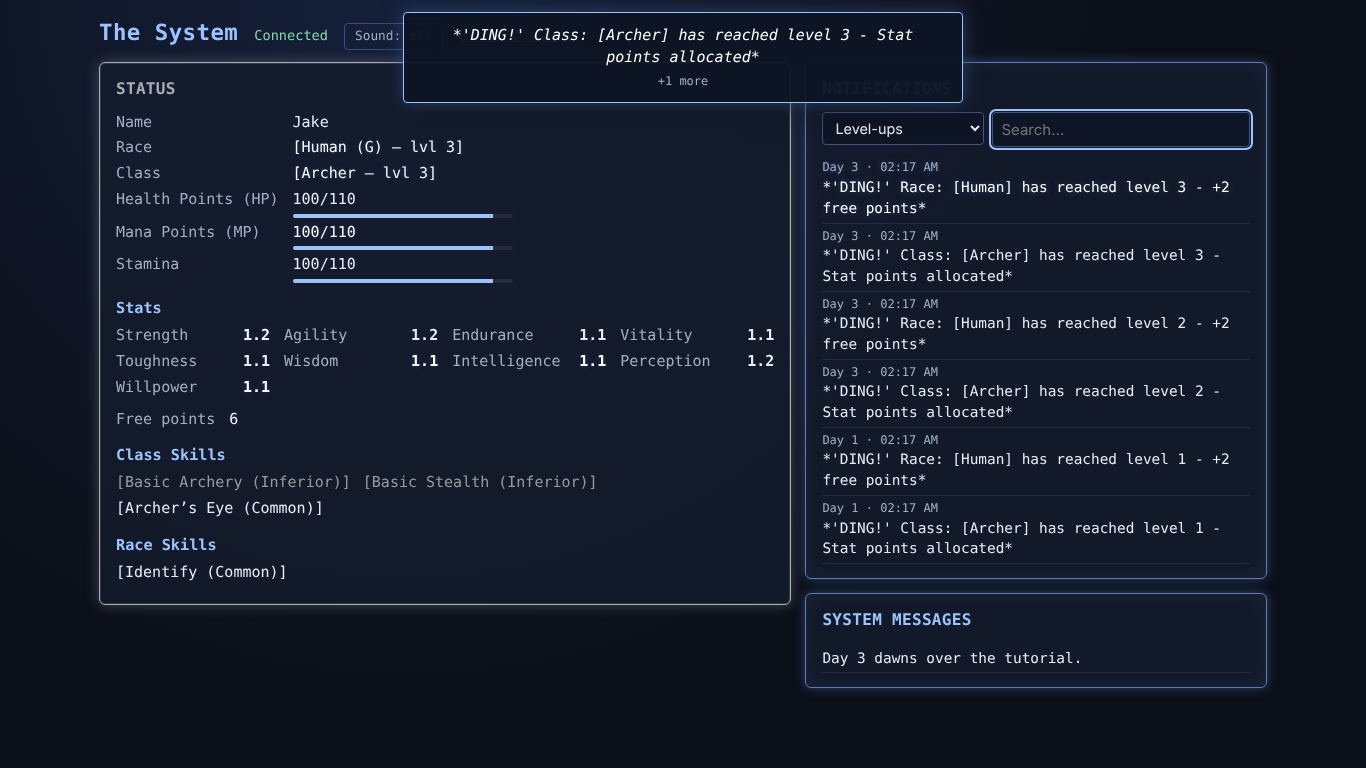
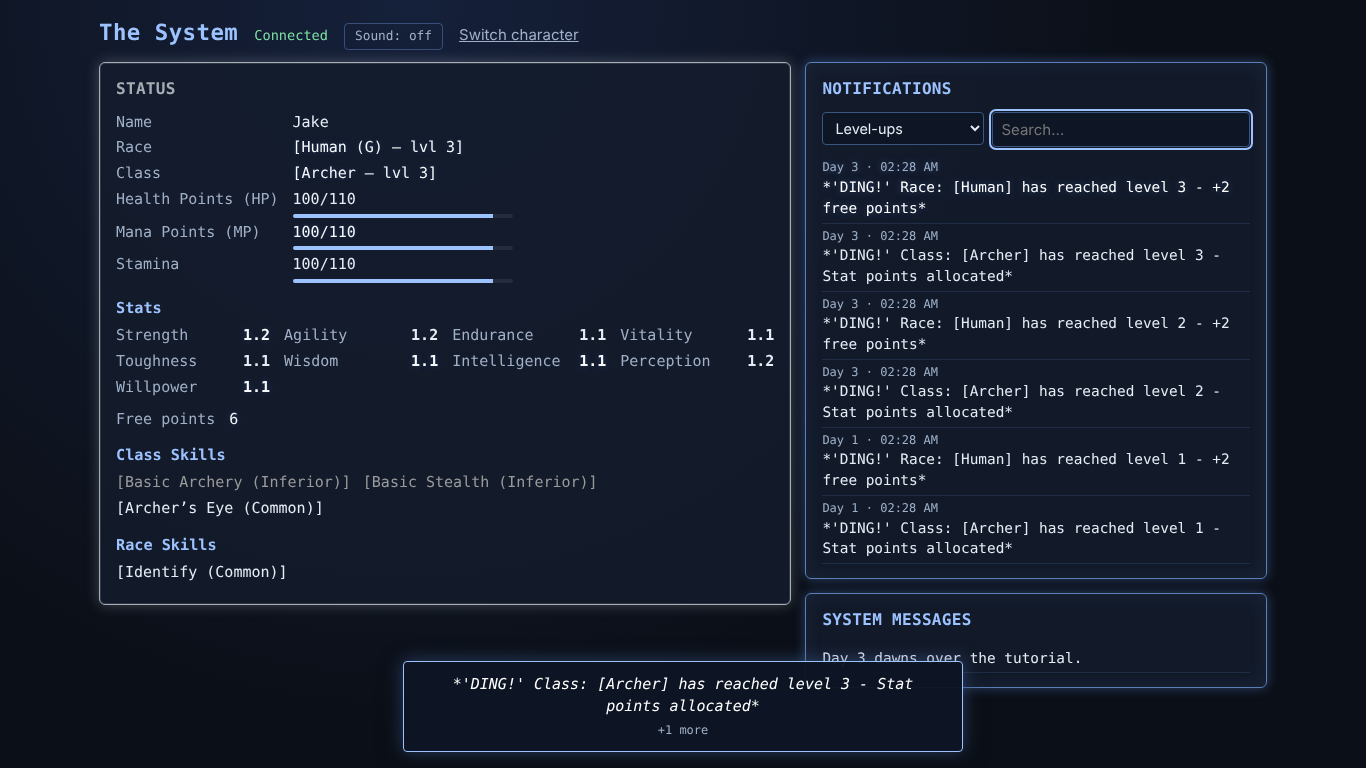
fix(M3.3): address review (DING queue by identity after undo, reset on rejoin after an offline undo, toast at the bottom, polite live region); test both
Claude-Session: https://claude.ai/code/session_01DunU5eoqUWJ2p7HLvhbDbF

Changed region(s): [[0.3075, 0.8438, 0.7072, 1.0], [0.2767, 0.0, 0.7072, 0.125]]

diff --git a/apps/web/src/player/PlayerScreen.tsx b/apps/web/src/player/PlayerScreen.tsx
@@ -14,8 +14,9 @@ import { LiveClient, type LiveSnapshot } from '../live';
 import { playChime, unlockChime } from './chime';
 import {
   HISTORY_FILTERS,
-  arrivals,
   filterHistory,
+  nextArrival,
+  notificationKey,
   readSound,
   whenLabel,
   writeSound,
@@ -361,13 +362,13 @@ const DING_MS = 2600;
  * Older history never pops up; it is in the Notifications list.
  */
 function DingQueue({ live, sound }: { live: LiveSnapshot; sound: boolean }) {
-  const queue = arrivals(live.notifications, live.liveSince);
-  const [shown, setShown] = useState(0);
-  const current = queue[shown];
-  const key = current ? `${current.seq}:${shown}` : null;
+  const [shown, setShown] = useState<ReadonlySet<string>>(() => new Set());
+  const { current, waiting } = nextArrival(live.notifications, live.liveSince, shown);
+  const key = current ? notificationKey(current) : null;
+  const done = (k: string) => setShown((s) => new Set(s).add(k));
   useEffect(() => {
     if (key === null) return;
-    const timer = setTimeout(() => setShown((s) => s + 1), DING_MS);
+    const timer = setTimeout(() => done(key), DING_MS);
     return () => clearTimeout(timer);
   }, [key]);
   // The chime plays once per DING, not again when sound is toggled.
@@ -377,24 +378,24 @@ function DingQueue({ live, sound }: { live: LiveSnapshot; sound: boolean }) {
     chimed.current = key;
     if (sound) playChime();
   }, [key, sound]);
-  if (!current) return null;
-  const waiting = queue.length - shown - 1;
   return (
-    <div className="ding-layer">
-      <button
-        type="button"
-        className="ding-toast"
-        key={key}
-        data-testid="ding-toast"
-        onClick={() => setShown((s) => s + 1)}
-      >
-        <span role="status">{notificationText(current.notification)}</span>
-        {waiting > 0 && (
-          <span className="ding-more" data-testid="ding-more">
-            +{waiting} more
-          </span>
-        )}
-      </button>
+    <div className="ding-layer" aria-live="polite">
+      {current && (
+        <button
+          type="button"
+          className="ding-toast"
+          key={key}
+          data-testid="ding-toast"
+          onClick={() => key !== null && done(key)}
+        >
+          <span>{notificationText(current.notification)}</span>
+          {waiting > 0 && (
+            <span className="ding-more" data-testid="ding-more">
+              +{waiting} more
+            </span>
+          )}
+        </button>
+      )}
     </div>
   );
 }

diff --git a/apps/server/test/sync.test.ts b/apps/server/test/sync.test.ts
@@ -285,17 +285,19 @@ describe('live protocol and authority', () => {
     };
     expect(view.view.me.classLevel).toBe(store.campaign.state?.characters.casper?.classLevel);
 
-    // Undo: the undone award's notifications are not replayed on a later rejoin.
-    const award2Id = store.campaign.events[store.campaign.events.length - 1]?.id;
+    // Undo: the undone award's notifications are not replayed on a later rejoin;
+    // an undo since lastSeq replaces the whole history (M3.3).
+    const award2Seq = store.campaign.events.length;
+    const award2Id = store.campaign.events[award2Seq - 1]?.id;
     expect((await gm.command({ type: 'event.undo', eventId: award2Id })).ok).toBe(true);
     const later = await connect();
     later.send({ type: 'join', role: 'player', characterId: 'casper', lastSeq });
     await later.waitFor((m) => m.type === 'view');
-    const replayed = later
-      .messages()
-      .filter((m) => m.type === 'notifications')
-      .flatMap((m) => m.items as { notification: { kind: string } }[]);
-    expect(replayed.filter((i) => i.notification.kind === 'level')).toEqual([]);
+    const frames = later.messages().filter((m) => m.type === 'notifications');
+    expect(frames).toEqual([expect.objectContaining({ reset: true })]);
+    const replayed = frames.flatMap((m) => m.items as { seq: number }[]);
+    expect(replayed.length).toBeGreaterThan(0);
+    expect(replayed.filter((i) => i.seq >= award2Seq)).toEqual([]);
     // lastSeq 0 is the whole history (M3.3): Casper's own, the undone award gone.
     const old = await connect();
     old.send({ type: 'join', role: 'player', characterId: 'casper', lastSeq: 0 });

diff --git a/apps/server/test/hub.test.ts b/apps/server/test/hub.test.ts
@@ -63,6 +63,36 @@ describe('LiveHub', () => {
         }),
       ]),
     });
+    // An undo while Jake's phone was offline: rejoining replaces his history.
+    const awardId = store.campaign.events[2]?.id;
+    conn.receive(
+      JSON.stringify({
+        type: 'command',
+        requestId: 'u1',
+        command: { type: 'event.undo', eventId: awardId },
+      }),
+    );
+    expect(got.find((m) => m.type === 'result' && m.requestId === 'u1')).toMatchObject({
+      ok: true,
+    });
+    const phone: ServerMessage[] = [];
+    const back = hub.connect((m) => phone.push(m));
+    back.receive(JSON.stringify({ type: 'join', role: 'player', characterId: 'jake', lastSeq: 3 }));
+    const replaced = phone.find((m) => m.type === 'notifications');
+    expect(replaced).toMatchObject({ reset: true });
+    expect(replaced?.type === 'notifications' && replaced.items).toEqual([]);
+    // Up to date: no reset, nothing new.
+    const fresh: ServerMessage[] = [];
+    const later = hub.connect((m) => fresh.push(m));
+    later.receive(
+      JSON.stringify({ type: 'join', role: 'player', characterId: 'jake', lastSeq: hub.seq }),
+    );
+    expect(fresh.find((m) => m.type === 'notifications')).toEqual({
+      type: 'notifications',
+      items: [],
+    });
+    back.close();
+    later.close();
     // A failed re-join drops the GM role.
     conn.receive(JSON.stringify({ type: 'join', role: 'player', characterId: 'ghost' }));
     conn.receive(

diff --git a/e2e/M3.3.spec.ts b/e2e/M3.3.spec.ts
@@ -236,6 +236,18 @@ test('the DING history reaches back to day 1 and new DINGs queue up', async ({ b
   const width = await phone.locator('html').evaluate((el) => el.scrollWidth);
   expect(width).toBeLessThanOrEqual(390);
   await phone.screenshot({ path: path.join(shots, 'player-390x844.png'), fullPage: true });
+  // A DING on the phone pops up at the bottom, clear of the header controls.
+  await award(gm, 200);
+  const phoneToast = phone.getByTestId('ding-toast');
+  await expect(phoneToast).toContainText("*'DING!' Class: [Archer]");
+  await phoneToast.evaluate((el) =>
+    Promise.all(el.getAnimations().map((a: { finished: Promise<unknown> }) => a.finished)),
+  );
+  const box = await phoneToast.boundingBox();
+  const header = await phone.getByTestId('sound').boundingBox();
+  expect(box && header && box.y > header.y + header.height).toBe(true);
+  expect(box && box.y + box.height <= 844 && box.x >= 0 && box.x + box.width <= 390).toBe(true);
+  await phone.screenshot({ path: path.join(shots, 'player-ding-390x844.png') });
 
   // Canary: nothing GM-only or meant for Miranda reached Jake's browser.
   const all = frames.join('\n');

diff --git a/apps/web/test/history.test.ts b/apps/web/test/history.test.ts
@@ -4,6 +4,8 @@ import {
   SOUND_KEY,
   arrivals,
   filterHistory,
+  nextArrival,
+  notificationKey,
   readSound,
   whenLabel,
   writeSound,
@@ -87,5 +89,19 @@ describe('notification history (M3.3)', () => {
     expect(readSound(blocked)).toBe(false);
     expect(() => writeSound(blocked, true)).not.toThrow();
     expect(readSound(null)).toBe(false);
+  });
+
+  it('picks the next DING by identity, so an undo cannot skip or swallow one', () => {
+    const a = level(10, 'class', 'Archer', 5);
+    const b = level(11, 'class', 'Archer', 6);
+    const c = level(12, 'class', 'Archer', 7);
+    const shown = new Set([notificationKey(a), notificationKey(b)]);
+    // b was undone (history reset without it); a new DING c arrives.
+    const after = nextArrival([...items, a, c], 9, shown);
+    expect(after.current?.seq).toBe(12);
+    expect(after.waiting).toBe(0);
+    // An earlier unseen arrival removed: the next one is still found.
+    expect(nextArrival([...items, b, c], 9, new Set([notificationKey(b)])).current?.seq).toBe(12);
+    expect(nextArrival([...items, a, b, c], 9, new Set()).waiting).toBe(2);
   });
 });

diff --git a/apps/web/src/player/history.ts b/apps/web/src/player/history.ts
@@ -68,6 +68,21 @@ export function isQueued(n: LiveNotification): boolean {
   return n.kind === 'level' || n.kind === 'broadcast';
 }
 
+/** Identity of a notification that survives a history reset after an undo. */
+export function notificationKey(n: SeqNotification): string {
+  return `${n.seq}:${JSON.stringify(n.notification)}`;
+}
+
+/** The next queued DING not yet shown (keys, not positions: an undo can remove earlier ones). */
+export function nextArrival(
+  items: readonly SeqNotification[],
+  liveSince: number | null,
+  shown: ReadonlySet<string>,
+): { current: SeqNotification | undefined; waiting: number } {
+  const left = arrivals(items, liveSince).filter((n) => !shown.has(notificationKey(n)));
+  return { current: left[0], waiting: Math.max(0, left.length - 1) };
+}
+
 /** Notifications that arrived while this page was open, oldest first. */
 export function arrivals(
   items: readonly SeqNotification[],

diff --git a/apps/server/src/hub.ts b/apps/server/src/hub.ts
@@ -223,6 +223,19 @@ export class LiveHub {
    */
   private sendMissed(client: Client, lastSeq: number | undefined): void {
     if (lastSeq === undefined || client.role.role === 'none') return;
+    // An undo since lastSeq (e.g. while this player was offline) may have
+    // removed DINGs the client still holds: send the whole history to replace them.
+    const undoneSince =
+      lastSeq > 0 &&
+      this.store.campaign.events.slice(lastSeq).some((e) => e.type === 'event.undone');
+    if (undoneSince) {
+      client.send({
+        type: 'notifications',
+        items: this.filter(client.role, this.history),
+        reset: true,
+      });
+      return;
+    }
     const items = this.filter(
       client.role,
       this.history.filter((n) => n.seq > lastSeq),

diff --git a/apps/web/src/styles.css b/apps/web/src/styles.css
@@ -777,7 +777,7 @@ button.secondary:hover {
 }
 .ding-layer {
   position: fixed;
-  top: 12px;
+  bottom: 16px;
   left: 0;
   right: 0;
   display: flex;
@@ -811,7 +811,7 @@ button.secondary:hover {
 @keyframes ding-in {
   from {
     opacity: 0;
-    transform: translateY(-12px) scale(0.97);
+    transform: translateY(12px) scale(0.97);
   }
 }
 @media (prefers-reduced-motion: reduce) {

diff --git a/docs/DECISIONS.md b/docs/DECISIONS.md
@@ -77,4 +77,4 @@ Newest at the bottom. Format: ID · date · decision · why.
 - D73 · 2026-10-22 · M2 milestone review (fable): (a) shutdown no longer waits on sockets. A Fastify `preClose` hook writes the last session logs and then terminates every WebSocket, because Fastify's own close waits for every connection, and a sleeping phone that never answers the close handshake held shutdown past the 5 s exit guard. Before this fix, no session log, snapshot or lock release happened on quit. (b) Campaign locks record a `machine` id. The desktop app keeps a random one in `<userData>/machine-id`, and the terminal server uses the host name as before. A lock is foreign only when its machine id differs; old locks without one still compare host names. Before this, a host name that changed with the network (macOS) made a crash-left lock look like another computer's, so the campaign refused to open. · Both broke the normal case (quit with a phone asleep; reopen on another wifi) rather than rare ones.
 - D74 · 2026-10-22 · Join screen (M3.1): `/` lists the party from `GET /api/characters`, which now returns `{id, name, grade, theme}` (theme = the grade's metal token from the rules config; still no stats or GM data). Characters have no portrait yet (M4.4 adds one), so each shows a monogram (first and last initial) ringed in its grade metal; the client already renders an image when a row carries a same-origin `portrait` path. The browser remembers the last character it joined (localStorage key `the-system:last-character`, written once the join succeeds, never from the GM's View-as panes, every access in try/catch) and offers "Continue as <name>" above the list plus a "Last played" tag, only while that id is in the current list. It does not jump to the remembered character on its own, because `/` is also where "Switch character" leads. A Refresh button reloads the list. · ROADMAP M3.1; one tap to rejoin without trapping anyone on the wrong character.
 - D75 · 2026-10-22 · Status screen (M3.2): the DESIGN §9 rows in order (Name, Race, Class, Profession when one exists, the pools from the rules config with a thin bar under each number, Stats, Free points, Titles, then Class/Profession/Race Skills as headed lists). The window frame and heading take the grade's metal from the rules config's theme token. Skills show `[Official name (Rarity)]` in a rarity colour with the nickname beside it in quotes. Changed values (levels, pools, stats, free points) glow for 1.6 s, but not on first paint, and never under reduced motion. On phones the label column narrows and bracketed values wrap only at the dash. Colours are CSS placeholders keyed by config ids; M8.1 owns the real themes and the silver/platinum ΔE check. The free-points [Assign] button arrives with M3.4. The demo gives Jake's first class skill the nickname "Old Faithful", so a nickname is visible. · DESIGN §9; colours keyed by config ids keep rule data out of the UI.
-- D76 · 2026-10-22 · Notifications and history (M3.3): notification derivation moved into the engine (`notificationsBetween`, `notificationHistory` in `packages/engine/src/history`); the history is folded from the event log like the campaign (undone events skipped), so it reaches back to day 1 across restarts and the hub's in-memory cap and `gap` flag are gone (protocol v3). Items carry `seq`, `at` and the in-game `day`. Join with `lastSeq` 0 sends the whole own-character history; an undo resends it with `reset: true` so undone DINGs leave open screens at once. The player's Notifications window lists it newest first with "Day N · time", a Show filter (Level-ups by default; Everything, Class, Profession, Race, Free points, System messages) and a case-insensitive search over the book text and day. DINGs and System messages that arrive while the page is open pop up one at a time (2.6 s each, click to skip, "+N more"; no animation under reduced motion); older history never pops up. The chime is two Web Audio notes, off by default, remembered per browser (try/catch); the GM's View-as panes get neither pop-ups nor sound. · DESIGN §7/§9; deriving from the log makes "back to day 1" true without a second store that could drift.
+- D76 · 2026-10-22 · Notifications and history (M3.3): notification derivation moved into the engine (`notificationsBetween`, `notificationHistory` in `packages/engine/src/history`); the history is folded from the event log like the campaign (undone events skipped), so it reaches back to day 1 across restarts and the hub's in-memory cap and `gap` flag are gone (protocol v3). Items carry `seq`, `at` and the in-game `day`. Join with `lastSeq` 0 sends the whole own-character history; an undo resends it with `reset: true` so undone DINGs leave open screens at once, and a rejoin whose `lastSeq` predates an undo gets the same reset. An undo refolds the log once (about 20 ms for 3,000 events here). The player's Notifications window lists it newest first with "Day N · time", a Show filter (Level-ups by default; Everything, Class, Profession, Race, Free points, System messages) and a case-insensitive search over the book text and day. DINGs and System messages that arrive while the page is open pop up one at a time (2.6 s each, click to skip, "+N more", at the bottom of the screen clear of the header; tracked by identity so an undo cannot skip one; no animation under reduced motion); older history never pops up. The chime is two Web Audio notes, off by default, remembered per browser (try/catch); the GM's View-as panes get neither pop-ups nor sound. · DESIGN §7/§9; deriving from the log makes "back to day 1" true without a second store that could drift.
